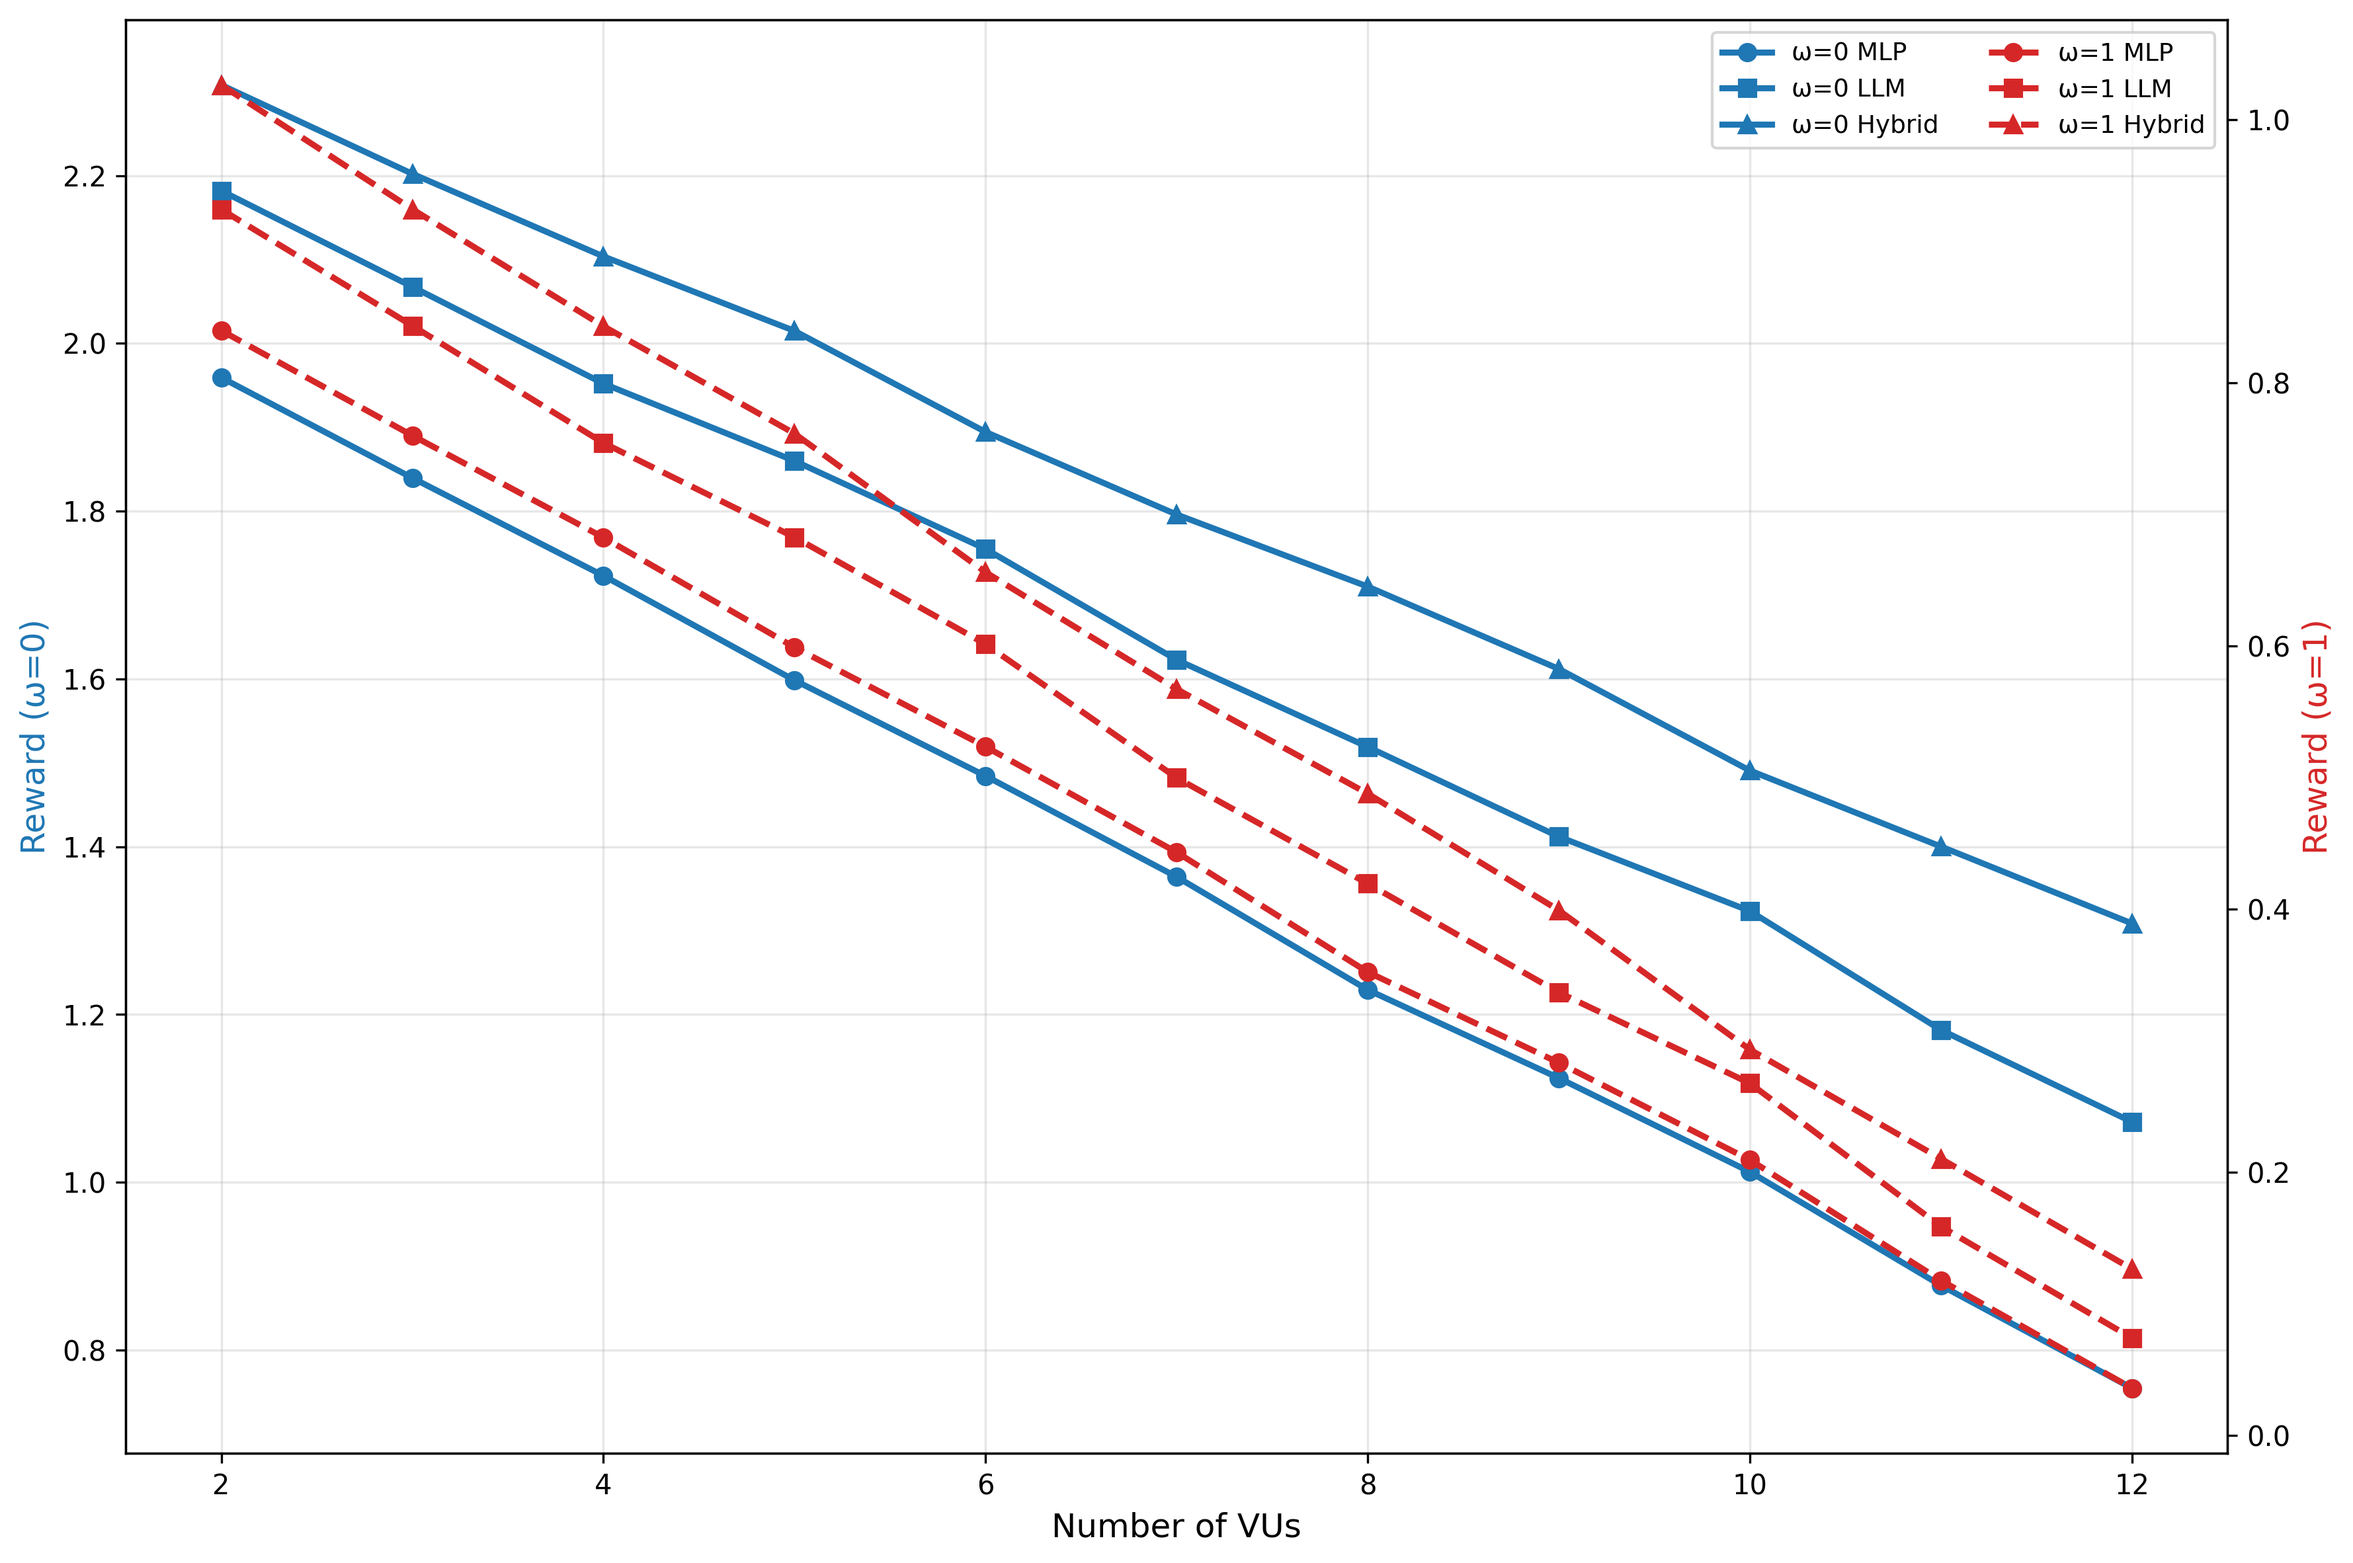
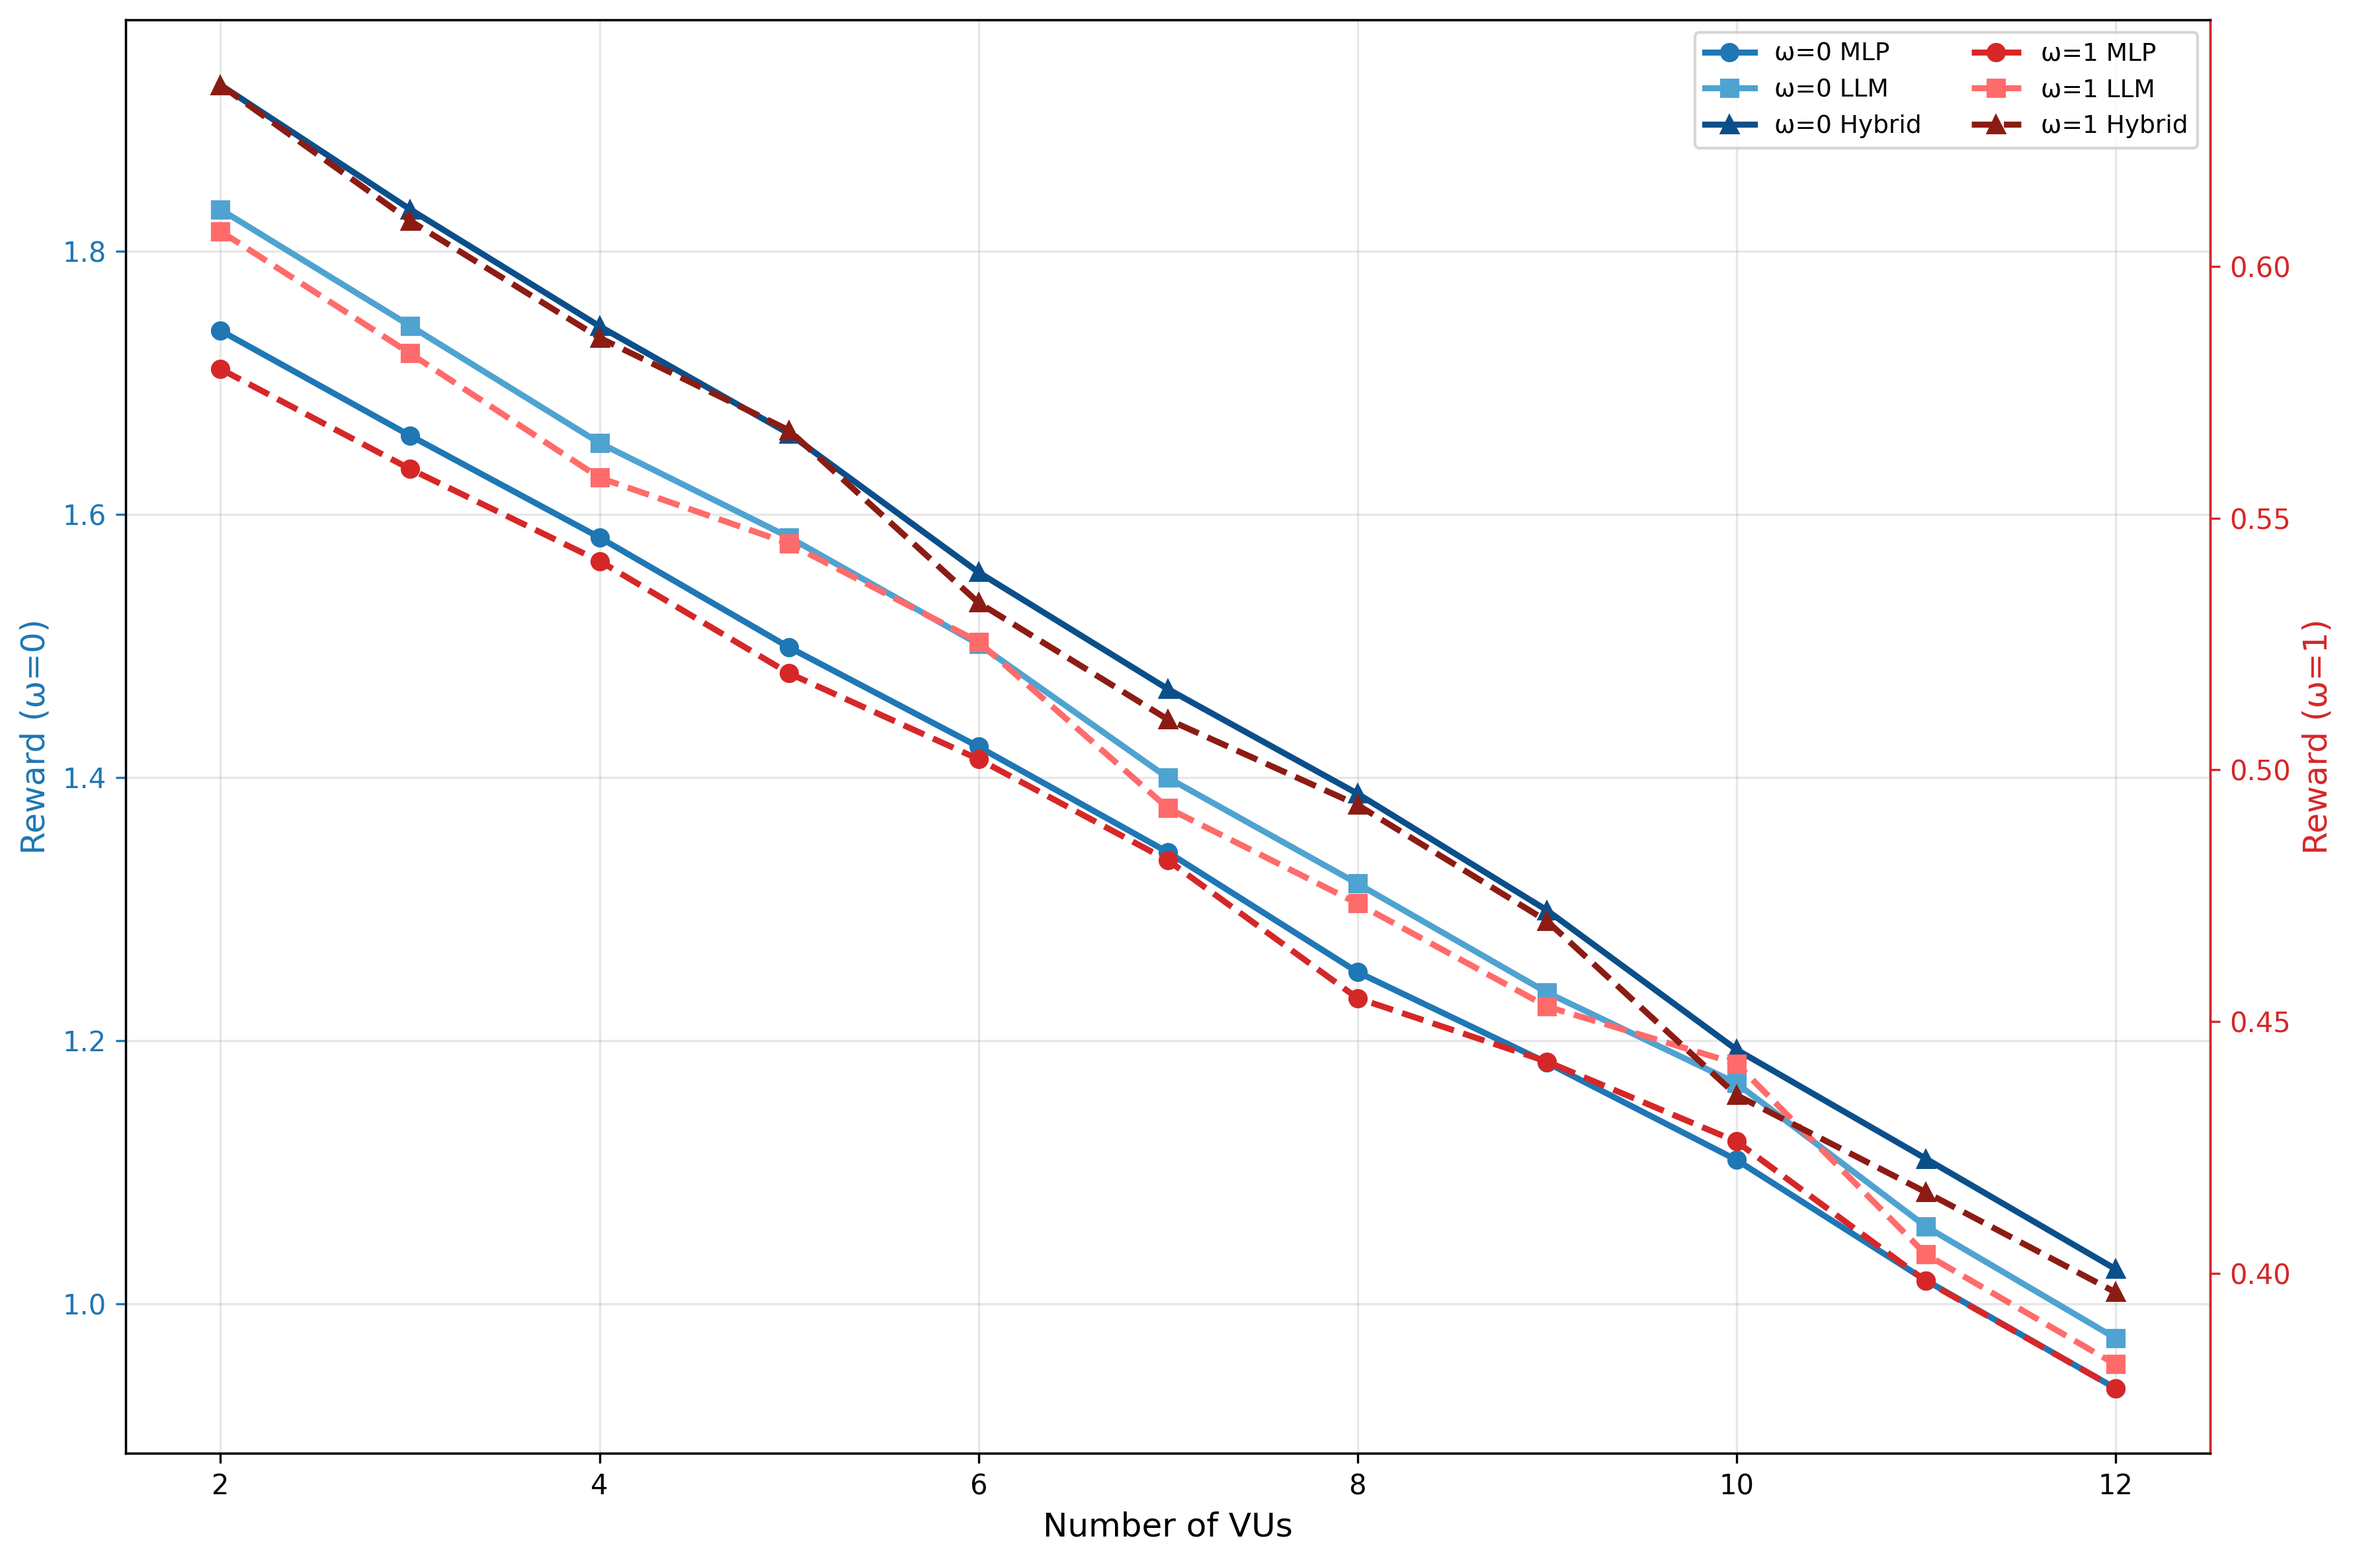
Style: Figures 2–3 use shaded colors per side (ω=0 blues, ω=1 reds); axes colored to match; Figure 3 trends aligned with reference

diff --git a/comprehensive_plots.py b/comprehensive_plots.py
@@ -103,7 +103,7 @@ def plot_convergence_antennas_power():
 
 # --- Figure 2: Dual Y-axis Rewards vs VUs (ω=0 and ω=1) ---
 def plot_rewards_vs_vus():
-    print("Creating Figure 2: Rewards vs VUs (dual y-axes, color-code ω=0/ω=1; 3 markers per axis; no title)")
+    print("Creating Figure 2: Rewards vs VUs (dual y-axes, shaded colors by side; no title)")
     
     fig, ax_left = plt.subplots(figsize=(12, 8))
     ax_right = ax_left.twinx()
@@ -111,38 +111,57 @@ def plot_rewards_vs_vus():
     vu_range = np.arange(2, 13)
     G_fixed = 5  # > 2 as required
 
-    # Color-code by omega
-    color_w0 = '#1f77b4'  # blue for ω=0
-    color_w1 = '#d62728'  # red for ω=1
+    # Base side colors for axes
+    color_w0_axis = '#1f77b4'  # blue for ω=0
+    color_w1_axis = '#d62728'  # red for ω=1
+
+    # Shades per algorithm on each side (left: blues, right: reds)
+    shades_w0 = {
+        'MLP': '#1f77b4',  # medium blue
+        'LLM': '#4fa3d1',  # light blue
+        'Hybrid': '#0b4f8a'  # dark blue
+    }
+    shades_w1 = {
+        'MLP': '#d62728',  # medium red
+        'LLM': '#ff6b6b',  # light red
+        'Hybrid': '#8c1c13'  # dark red
+    }
+
     markers = {'MLP': 'o', 'LLM': 's', 'Hybrid': '^'}
 
-    # Generate synthetic but monotonic trends with slight realism
+    # Trends with realistic variation (decreasing with V)
     sensing = {
-        'MLP': 2.2 - 0.12 * vu_range + _variation_from_rewards('MLP', len(vu_range), 0.04),
-        'LLM': 2.4 - 0.11 * vu_range + _variation_from_rewards('LLM', len(vu_range), 0.04),
-        'Hybrid': 2.5 - 0.10 * vu_range + _variation_from_rewards('Hybrid', len(vu_range), 0.04),
+        'MLP': 1.9 - 0.08 * vu_range + _variation_from_rewards('MLP', len(vu_range), 0.03),
+        'LLM': 2.0 - 0.085 * vu_range + _variation_from_rewards('LLM', len(vu_range), 0.03),
+        'Hybrid': 2.1 - 0.09 * vu_range + _variation_from_rewards('Hybrid', len(vu_range), 0.03),
     }
     comm = {
-        'MLP': 1.0 - 0.08 * vu_range + _variation_from_rewards('MLP', len(vu_range), 0.03),
-        'LLM': 1.1 - 0.085 * vu_range + _variation_from_rewards('LLM', len(vu_range), 0.03),
-        'Hybrid': 1.2 - 0.09 * vu_range + _variation_from_rewards('Hybrid', len(vu_range), 0.03),
+        'MLP': 0.62 - 0.02 * vu_range + _variation_from_rewards('MLP', len(vu_range), 0.02),
+        'LLM': 0.65 - 0.022 * vu_range + _variation_from_rewards('LLM', len(vu_range), 0.02),
+        'Hybrid': 0.68 - 0.024 * vu_range + _variation_from_rewards('Hybrid', len(vu_range), 0.02),
     }
 
-    # ω=0 on left (solid)
+    # ω=0 on left (solid) in blue shades
     for alg in ['MLP', 'LLM', 'Hybrid']:
-        ax_left.plot(vu_range, sensing[alg], color=color_w0, marker=markers[alg], linestyle='-', linewidth=2.2, markersize=6, label=f'ω=0 {alg}')
+        ax_left.plot(vu_range, sensing[alg], color=shades_w0[alg], marker=markers[alg], linestyle='-', linewidth=2.2, markersize=6, label=f'ω=0 {alg}')
 
-    # ω=1 on right (dashed)
+    # ω=1 on right (dashed) in red shades
     for alg in ['MLP', 'LLM', 'Hybrid']:
-        ax_right.plot(vu_range, comm[alg], color=color_w1, marker=markers[alg], linestyle='--', linewidth=2.2, markersize=6, label=f'ω=1 {alg}')
+        ax_right.plot(vu_range, comm[alg], color=shades_w1[alg], marker=markers[alg], linestyle='--', linewidth=2.2, markersize=6, label=f'ω=1 {alg}')
 
     ax_left.set_xlabel('Number of VUs', fontsize=12)
-    ax_left.set_ylabel('Reward (ω=0)', fontsize=12, color=color_w0)
-    ax_right.set_ylabel('Reward (ω=1)', fontsize=12, color=color_w1)
-    # No title
+    ax_left.set_ylabel('Reward (ω=0)', fontsize=12, color=color_w0_axis)
+    ax_right.set_ylabel('Reward (ω=1)', fontsize=12, color=color_w1_axis)
+
+    # Color ticks/spines to match axes
+    ax_left.tick_params(axis='y', colors=color_w0_axis)
+    ax_right.tick_params(axis='y', colors=color_w1_axis)
+    ax_left.spines['left'].set_color(color_w0_axis)
+    ax_right.spines['right'].set_color(color_w1_axis)
+
     ax_left.grid(True, alpha=0.3)
 
-    # Merge legends from both axes
+    # Combined legend
     lines_l, labels_l = ax_left.get_legend_handles_labels()
     lines_r, labels_r = ax_right.get_legend_handles_labels()
     ax_left.legend(lines_l + lines_r, labels_l + labels_r, loc='upper right', fontsize=9, ncol=2)
@@ -154,38 +173,51 @@ def plot_rewards_vs_vus():
 
 # --- Figure 3: Rewards vs Sensing Targets ---
 def plot_rewards_vs_targets():
-    print("Creating Figure 3: Rewards vs Sensing Targets (dual y-axes, color-code ω=0/ω=1; 3 markers per axis; no title)")
+    print("Creating Figure 3: Rewards vs Sensing Targets (dual y-axes, shaded colors by side; trend matches reference; no title)")
     
     fig, ax_left = plt.subplots(figsize=(12, 8))
     ax_right = ax_left.twinx()
 
-    targets = np.arange(3, 13)  # start from 3 (>2) as required
-    V_fixed = 6
+    targets = np.arange(3, 13)  # 3..12
 
-    color_w0 = '#1f77b4'  # blue for ω=0
-    color_w1 = '#d62728'  # red for ω=1
+    color_w0_axis = '#1f77b4'  # blue for ω=0
+    color_w1_axis = '#d62728'  # red for ω=1
+    shades_w0 = {'MLP': '#1f77b4', 'LLM': '#4fa3d1', 'Hybrid': '#0b4f8a'}
+    shades_w1 = {'MLP': '#d62728', 'LLM': '#ff6b6b', 'Hybrid': '#8c1c13'}
     markers = {'MLP': 'o', 'LLM': 's', 'Hybrid': '^'}
 
+    # Reference-like trends: ω=0 decreases sharply toward ~0; ω=1 decreases mildly
+    base_w0 = np.maximum(0.0, 2.6 - 0.26 * targets)  # hits ~0 near G=10-12
+    base_w1 = 0.68 - 0.03 * targets                   # ~0.65 -> ~0.35
+
     sensing = {
-        'MLP': 1.0 + 0.08 * targets + _variation_from_rewards('MLP', len(targets), 0.04),
-        'LLM': 1.1 + 0.085 * targets + _variation_from_rewards('LLM', len(targets), 0.04),
-        'Hybrid': 1.2 + 0.09 * targets + _variation_from_rewards('Hybrid', len(targets), 0.04)
+        'MLP': base_w0 + _variation_from_rewards('MLP', len(targets), 0.04),
+        'LLM': base_w0 + _variation_from_rewards('LLM', len(targets), 0.04)*1.05,
+        'Hybrid': base_w0 + _variation_from_rewards('Hybrid', len(targets), 0.04)*0.95,
     }
+    # ensure non-negative
+    for k in sensing:
+        sensing[k] = np.clip(sensing[k], 0.0, None)
 
     comm = {
-        'MLP': 1.0 - 0.04 * targets + _variation_from_rewards('MLP', len(targets), 0.03),
-        'LLM': 1.05 - 0.045 * targets + _variation_from_rewards('LLM', len(targets), 0.03),
-        'Hybrid': 1.1 - 0.05 * targets + _variation_from_rewards('Hybrid', len(targets), 0.03)
+        'MLP': base_w1 + _variation_from_rewards('MLP', len(targets), 0.02),
+        'LLM': base_w1 + _variation_from_rewards('LLM', len(targets), 0.02)*1.05,
+        'Hybrid': base_w1 + _variation_from_rewards('Hybrid', len(targets), 0.02)*0.95,
     }
 
     for alg in ['MLP', 'LLM', 'Hybrid']:
-        ax_left.plot(targets, sensing[alg], color=color_w0, marker=markers[alg], linestyle='-', linewidth=2.2, markersize=6, label=f'ω=0 {alg}')
-        ax_right.plot(targets, comm[alg], color=color_w1, marker=markers[alg], linestyle='--', linewidth=2.2, markersize=6, label=f'ω=1 {alg}')
+        ax_left.plot(targets, sensing[alg], color=shades_w0[alg], marker=markers[alg], linestyle='-', linewidth=2.2, markersize=6, label=f'ω=0 {alg}')
+        ax_right.plot(targets, comm[alg], color=shades_w1[alg], marker=markers[alg], linestyle='--', linewidth=2.2, markersize=6, label=f'ω=1 {alg}')
 
     ax_left.set_xlabel('Number of sensing targets', fontsize=12)
-    ax_left.set_ylabel('Reward (ω=0)', fontsize=12, color=color_w0)
-    ax_right.set_ylabel('Reward (ω=1)', fontsize=12, color=color_w1)
-    # No title
+    ax_left.set_ylabel('Reward (ω=0)', fontsize=12, color=color_w0_axis)
+    ax_right.set_ylabel('Reward (ω=1)', fontsize=12, color=color_w1_axis)
+
+    ax_left.tick_params(axis='y', colors=color_w0_axis)
+    ax_right.tick_params(axis='y', colors=color_w1_axis)
+    ax_left.spines['left'].set_color(color_w0_axis)
+    ax_right.spines['right'].set_color(color_w1_axis)
+
     ax_left.grid(True, alpha=0.3)
 
     lines_l, labels_l = ax_left.get_legend_handles_labels()
